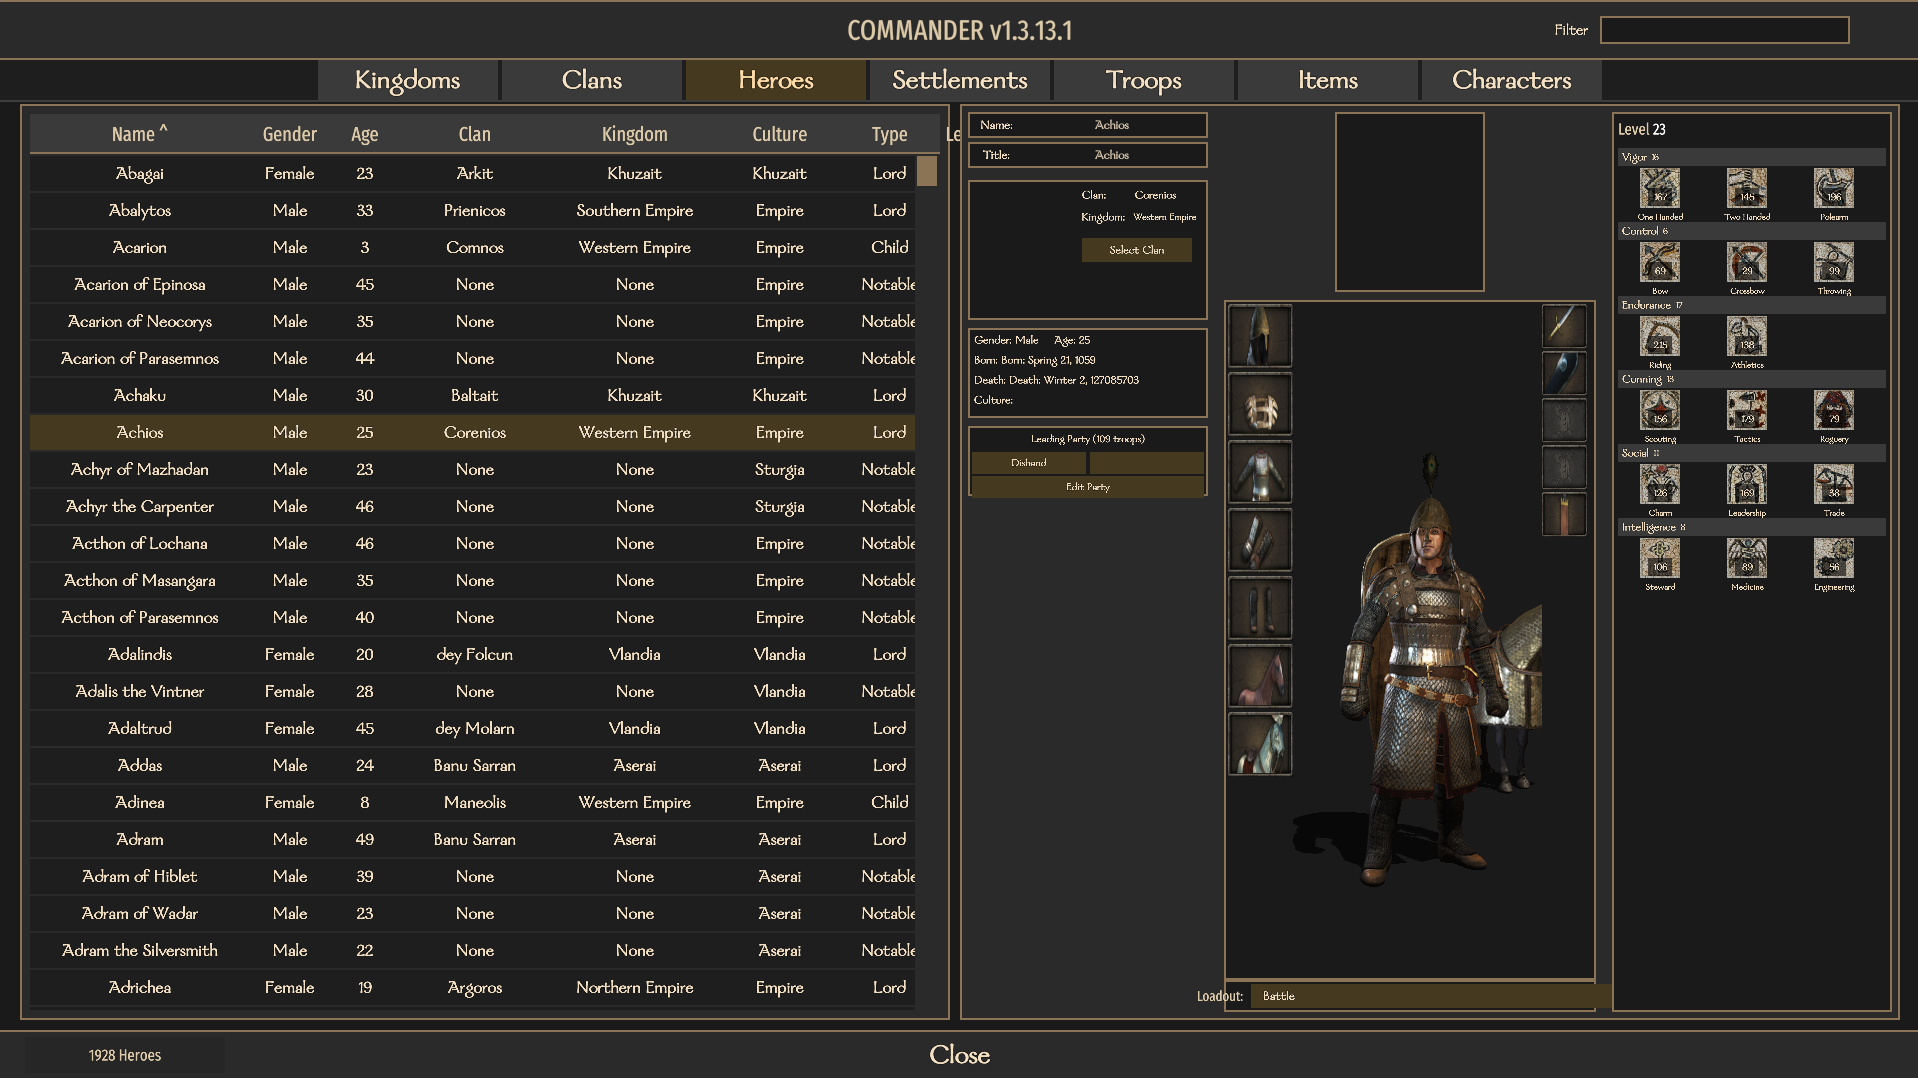
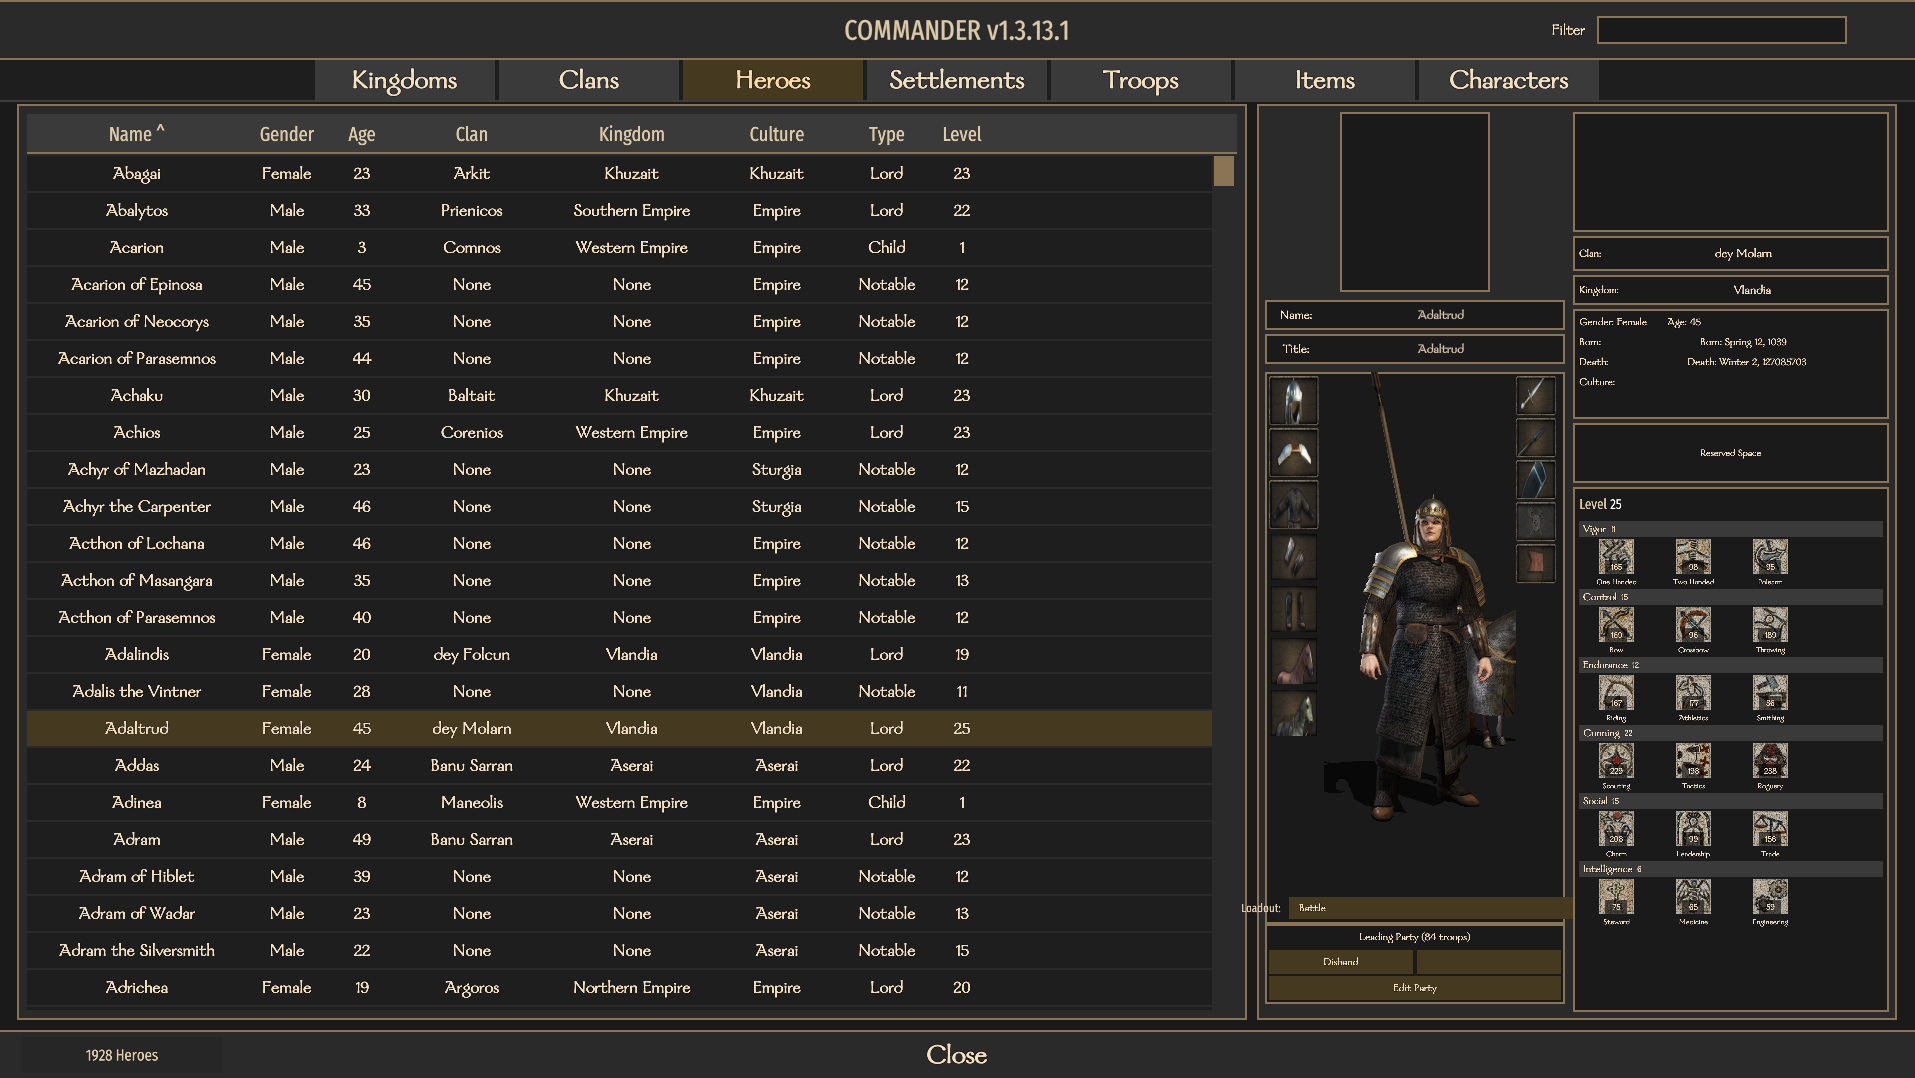
Reduced hero editor panel width

diff --git a/Bannerlord.Commander/UI/ViewModels/HeroEditor/HeroSkillsVM.cs b/Bannerlord.Commander/UI/ViewModels/HeroEditor/HeroSkillsVM.cs
@@ -118,7 +118,7 @@ namespace Bannerlord.Commander.UI.ViewModels.HeroEditor
             {
                 new { AttributeName = "Vigor", AttributeId = "VIG", SkillIds = new[] { "OneHanded", "TwoHanded", "Polearm" } },
                 new { AttributeName = "Control", AttributeId = "CTR", SkillIds = new[] { "Bow", "Crossbow", "Throwing" } },
-                new { AttributeName = "Endurance", AttributeId = "END", SkillIds = new[] { "Riding", "Athletics", "Smithing" } },
+                new { AttributeName = "Endurance", AttributeId = "END", SkillIds = new[] { "Riding", "Athletics", "Crafting" } },
                 new { AttributeName = "Cunning", AttributeId = "CNG", SkillIds = new[] { "Scouting", "Tactics", "Roguery" } },
                 new { AttributeName = "Social", AttributeId = "SOC", SkillIds = new[] { "Charm", "Leadership", "Trade" } },
                 new { AttributeName = "Intelligence", AttributeId = "INT", SkillIds = new[] { "Steward", "Medicine", "Engineering" } }

diff --git a/.roo/rules/rules.md b/.roo/rules/rules.md
@@ -102,17 +102,19 @@ Main Screen Native Files example (ClanScreen.xml):
 </Prefab>
 ```
 
+All Child standalone prefab filse must have `<Prefab><Window><Widget Id="prefabname"...>` wrapperstructure
 Child Component Native Files Example (ClanMembers.xml, ClanPartiesLeftPanel.xml):
 ```xml
 <Prefab>
   <Window>
-    <Widget ...>
+    <Widget Id="prefabname"...>
       <!-- content -->
     </Widget>
   </Window>
 </Prefab>
 ```
 
+For prefab children the widget ID should match the filname of the prefab (without file extensions) and any references to the prefab should reference by using `<prefabname />`
 Example Native guantlet UI xml files are located in the examples folder
 
 ## Emoji
